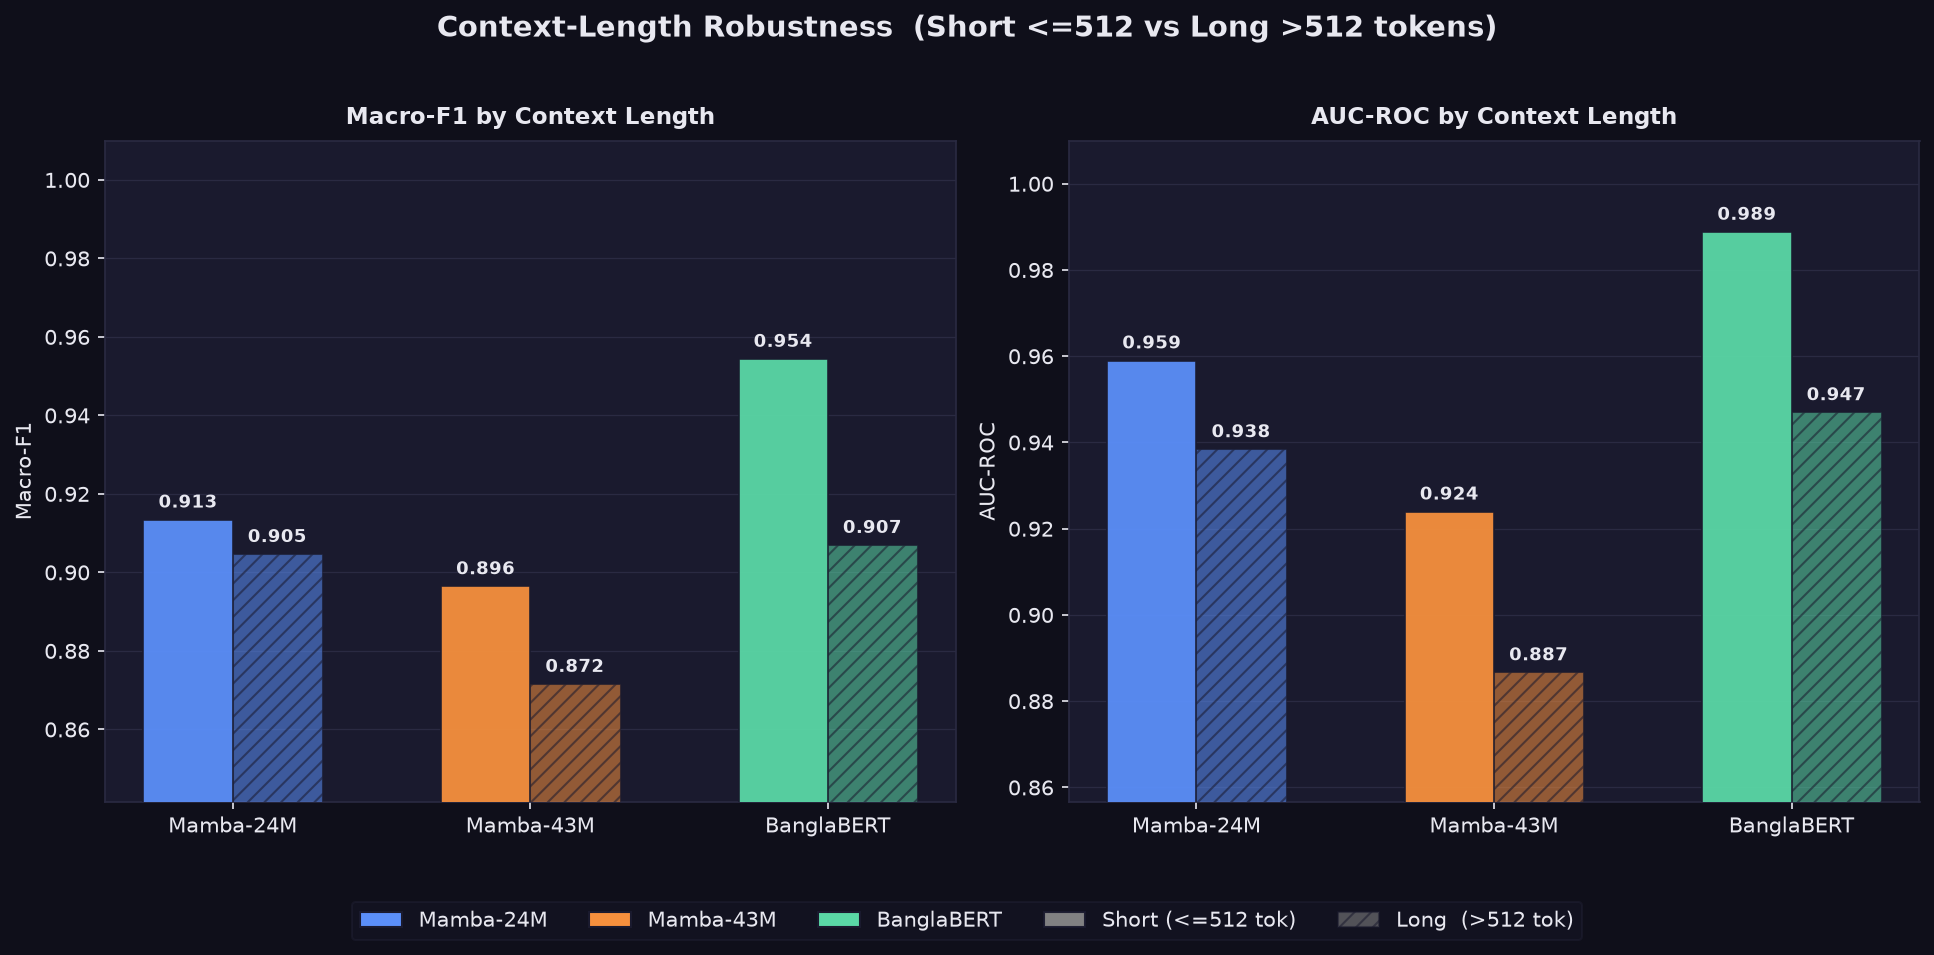
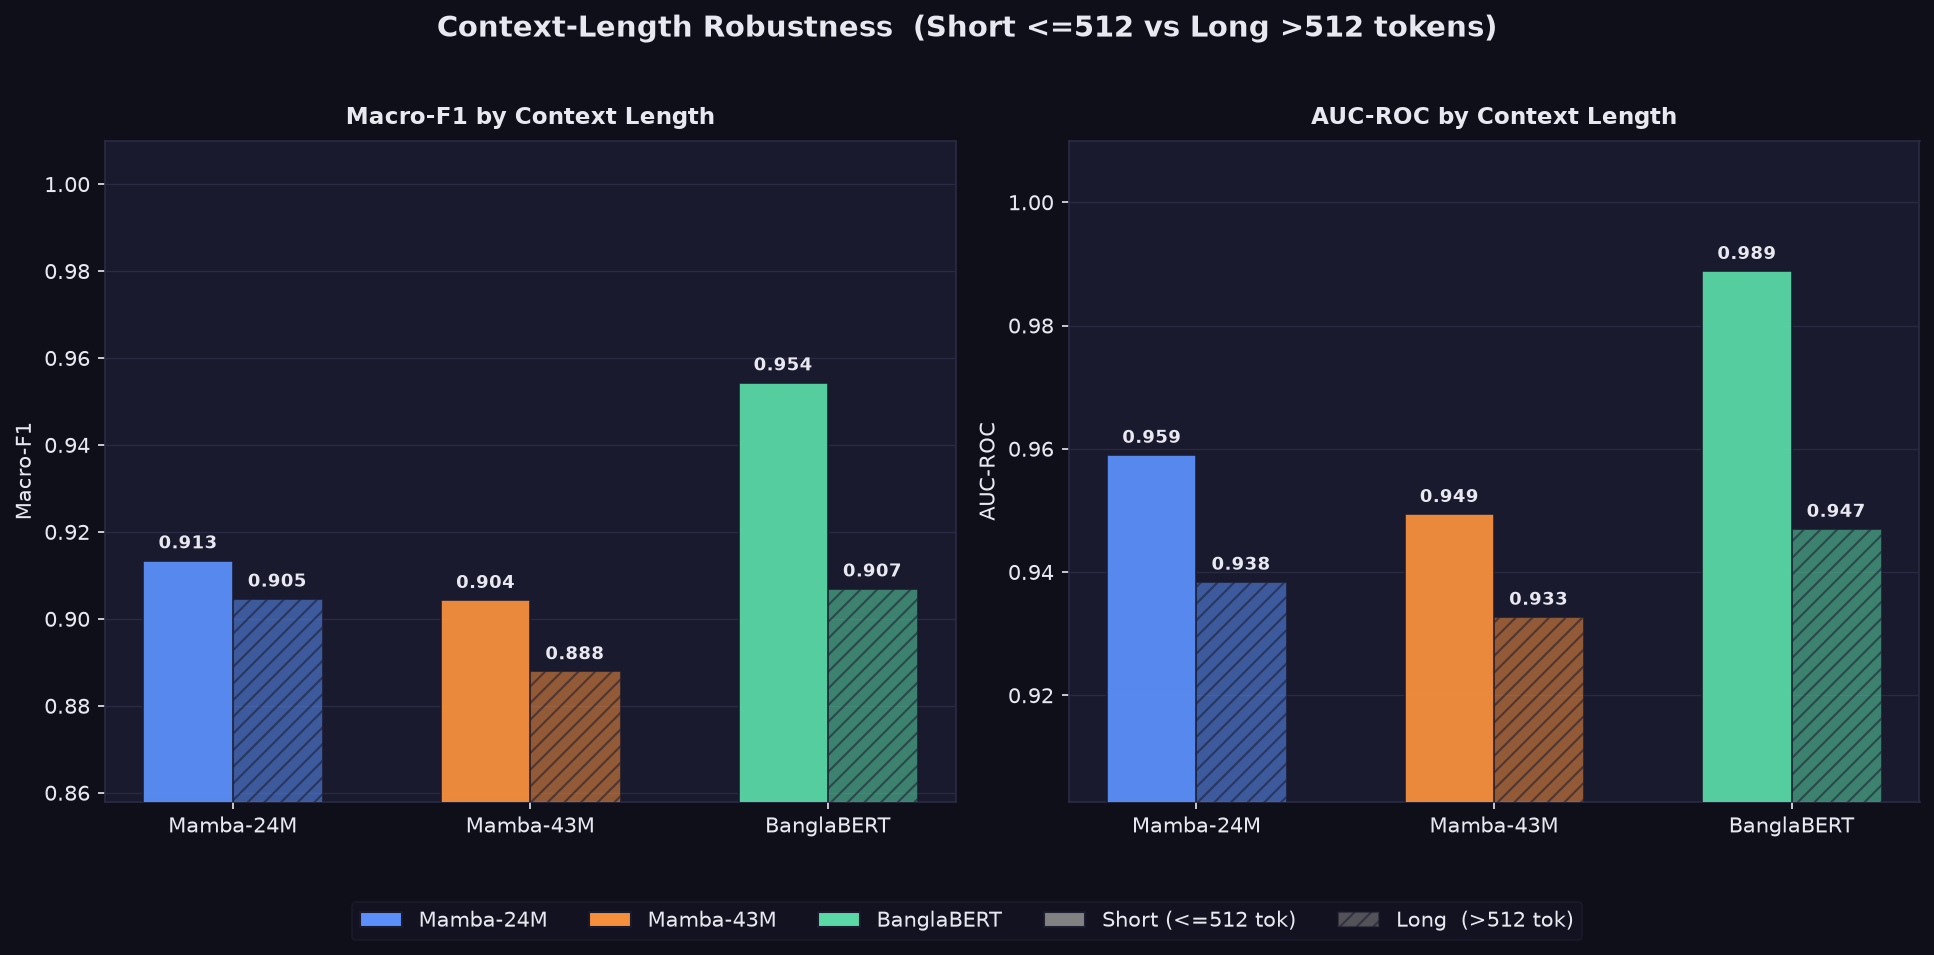
readme updated

diff --git a/config/params.py b/config/params.py
@@ -64,7 +64,7 @@ class MambaTrainParams(BaseModel):
     d_model: int            = 512
     n_layer: int            = 16
     num_labels: int         = 2
-    max_length: int         = 768     # Mamba context window (vs BERT 512)
+    max_length: int         = 1024     # Mamba context window (vs BERT 512)
 
     # ── Training ───────────────────────────────────────────────
     epochs: int             = 5

diff --git a/README.md b/README.md
@@ -463,7 +463,7 @@ The figure below compares all three models on the test set across four dimension
 > **Key takeaways:**
 > - BanglaBERT leads on classification metrics thanks to large-scale Bangla pretraining.
 > - BanglaMamba-Small (24M) matches BanglaBERT closely on Fake-F1 and AUC-ROC while using **3–4× less VRAM** and **80% less parameter**.
-> - BanglaMamba-Large (43M) sits between the two on accuracy but stays memory-efficient.
+> - BanglaMamba-Large (43M) gives similar results to BanglaMamba-Small. Though the model is larger, it provides no extra improvement since the dataset was insufficient for the larger model to benefit from its increased capacity. After about two epochs, both models began to overfit, indicating that the dataset size limited further improvements through longer training.
 
 ---
 
@@ -476,7 +476,7 @@ BanglaBERT must truncate long articles; Mamba models read them in full.
 
 > **Key takeaways:**
 > - BanglaBERT's Macro-F1 drops **~4.7 percentage points** on long articles due to truncation.
-> - BanglaMamba-Small degrades by only **~0.9 pp**, demonstrating strong long-context robustness.
+> - BanglaMamba-Small degrades by only **~0.9 percentage points**, demonstrating strong long-context robustness.
 > - Mamba's linear-complexity SSM is a natural fit for longer Bangla news articles.
 
 The evaluation covers:
@@ -507,3 +507,10 @@ The evaluation covers:
 - **Hybrid architectures** — Explore Transformer + Mamba hybrid models (e.g., attention for local context, SSM for long-range dependencies).
 
 ---
+## Known Issues & Notes
+
+- **PyTorch on Windows** — `torch==2.4.0` causes errors on Windows. Use `torch==2.12.1` if running natively on Windows. The Docker image (Linux) works fine with `2.4.0`.
+
+- **Mamba Requires GPU to Train** — `causal-conv1d` and `mamba-ssm` are CUDA extensions that require a GPU to install and run. There is no CPU fallback for training. Use Modal for cloud GPU access, then convert the trained weights to HuggingFace format for local CPU inference (see [CPU Inference](#cpu-inference--mamba-conversion)).
+
+- **Class Imbalance** — The dataset is heavily imbalanced (~83.5% Real, ~16.5% Fake). Weighted cross-entropy loss is applied with pre-computed class weights (`Fake=3.03, Real=0.60`). The Macro-F1 score (not accuracy) is used as the primary evaluation metric to account for this imbalance.